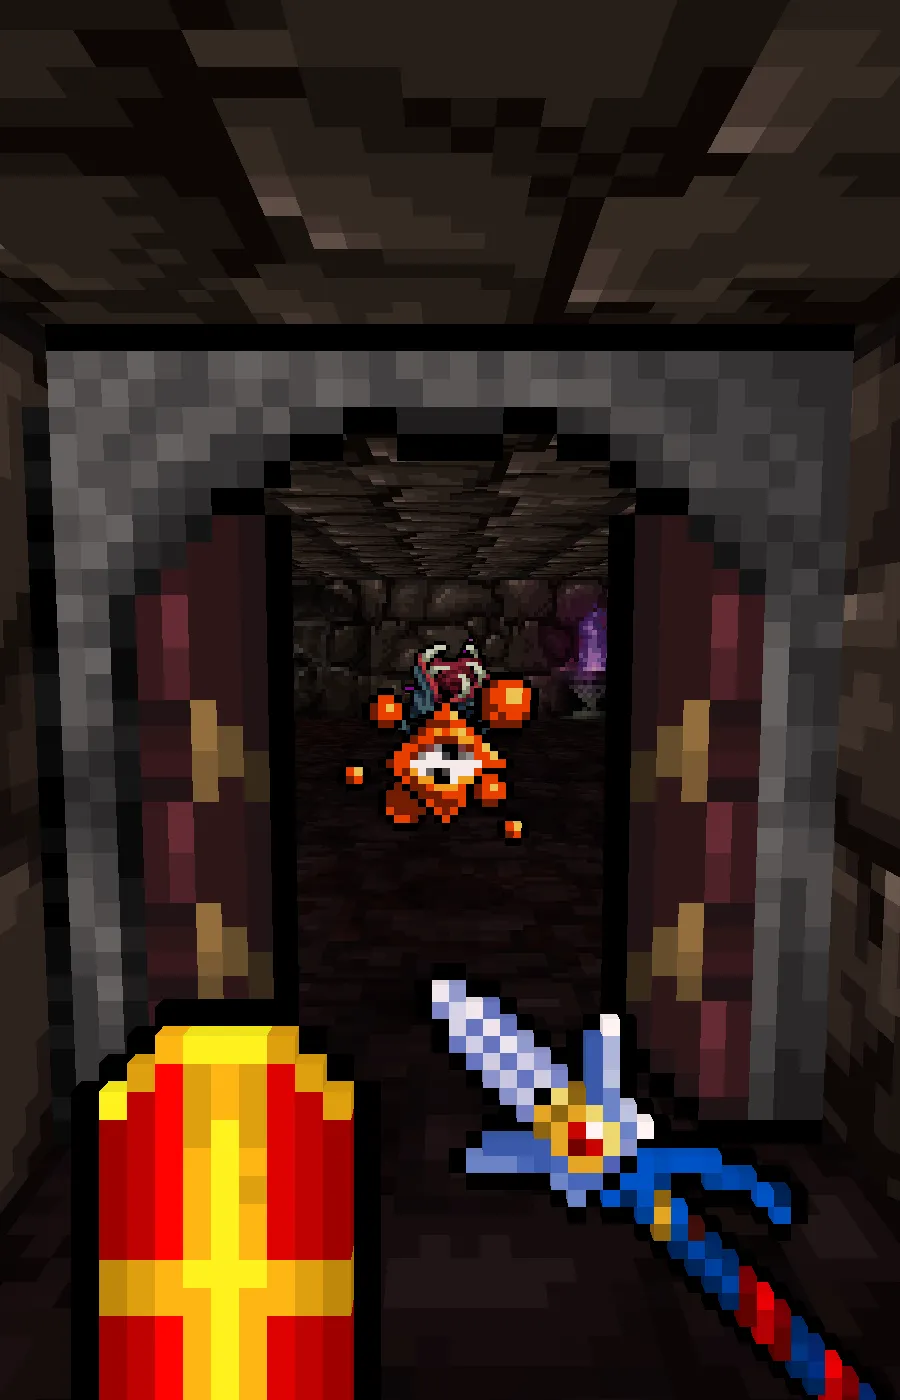
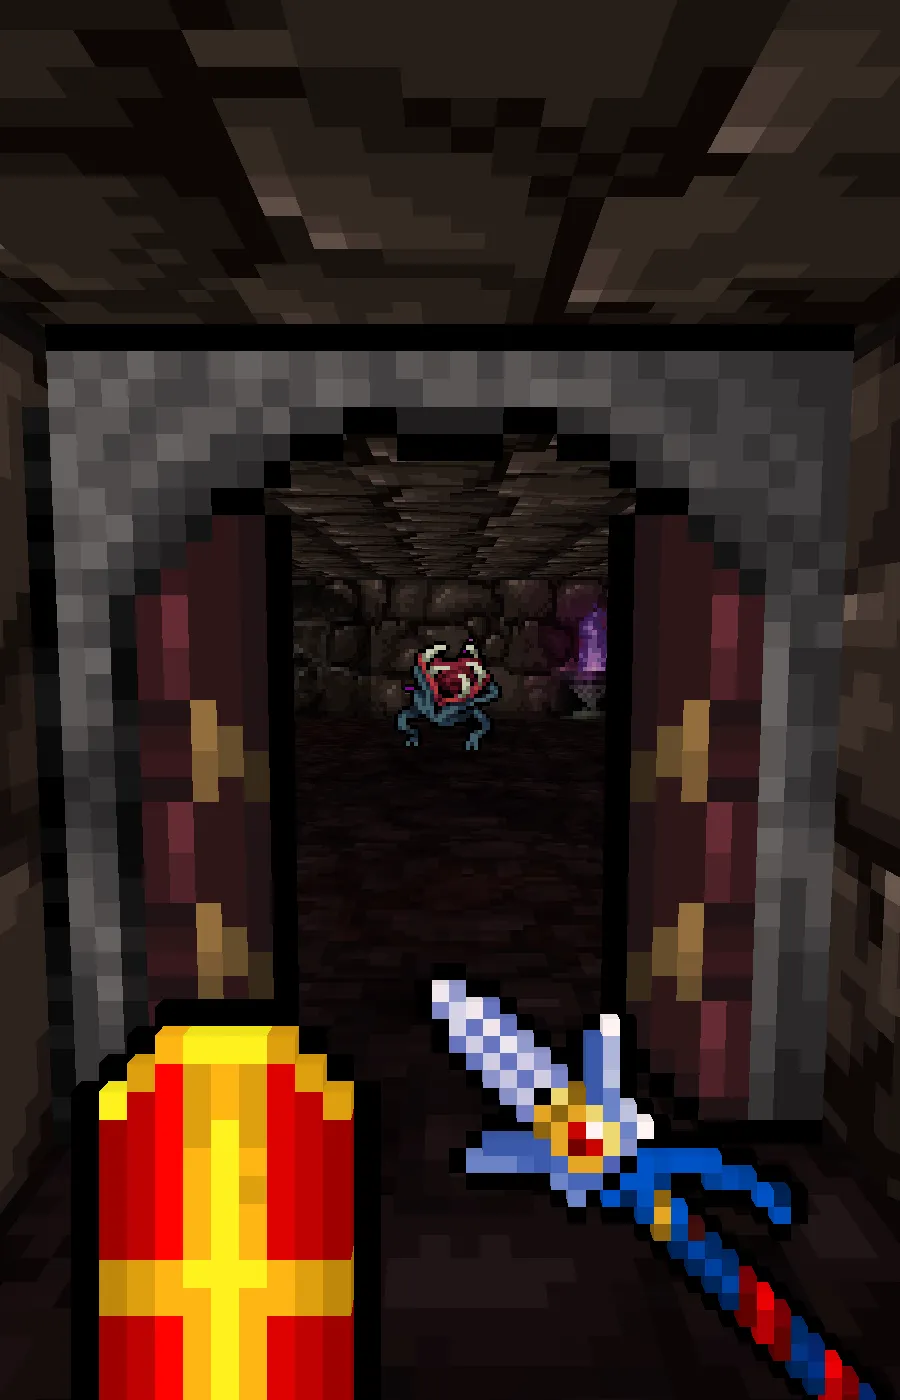
fix: update About's cover and veil

Changed region(s): [[0.3733, 0.4607, 0.6222, 0.6143], [0.56, 0.5836, 0.5911, 0.6143]]

diff --git a/apps/orbrun/site/site.css b/apps/orbrun/site/site.css
@@ -65,6 +65,9 @@ a[target='_blank']:not(.btn)::after { content: ' ↗'; font: 0.75em var(--mono);
 .brand { display: flex; align-items: center; gap: 0.45rem; color: var(--ink); text-decoration: none; font: 700 1.6rem/1 var(--gothic) }
 .brand img, .hero h1 img { image-rendering: pixelated; filter: drop-shadow(0 0 5px rgba(185, 120, 31, 0.75)) drop-shadow(0 0 12px rgba(139, 63, 176, 0.45)) }
 .brand img { width: 1.35rem; height: 1.35rem }
+/* About's own name stands in the hero: the bar's shows once that one has scrolled under it (site.js) */
+.bar.nameless .brand { opacity: 0; pointer-events: none; transition: opacity 0.25s }
+.bar.nameless.named .brand { opacity: 1; pointer-events: auto }
 .bar nav { display: flex; gap: 1.25rem; margin-left: auto }
 .bar nav a { color: var(--ink-dim); text-decoration: none; white-space: nowrap }
 .bar nav a:hover, .bar nav a[aria-current] { color: var(--ink) }
@@ -104,14 +107,14 @@ a[target='_blank']:not(.btn)::after { content: ' ↗'; font: 0.75em var(--mono);
 .hero.stage picture { position: absolute; inset: 0 0 auto; height: var(--still); z-index: -2 }
 .hero.stage picture img { width: 100%; height: 100%; object-fit: cover; image-rendering: pixelated }
 .hero.stage::before { inset: 0 0 auto; height: var(--still); background:
-  linear-gradient(to top, var(--bg) 0%, rgba(7, 7, 11, 0.6) 8%, rgba(7, 7, 11, 0.28) 22%, rgba(7, 7, 11, 0.22) 80%, rgba(7, 7, 11, 0.6) 100%),
+  linear-gradient(to top, var(--bg) 0%, rgba(30, 18, 12, 0.65) 10%, rgba(30, 18, 12, 0.5) 24%, rgba(30, 18, 12, 0.43) 76%, rgba(7, 7, 11, 0.65) 100%),
   radial-gradient(ellipse 38% 44% at 50% 55%, rgba(7, 7, 11, 0.72), rgba(7, 7, 11, 0.38) 60%, transparent) }
 @media (max-width: 700px) {
-  .hero.stage { --still: min(155.5vw, 82vh); padding-top: calc(var(--still) * 0.74) }
-  /* the portrait still keeps its monster in the middle and the title stands below it, so the shade goes under the title instead */
+  .hero.stage { --still: min(155.5vw, 82vh); padding-top: calc(var(--still) * 0.56) }
+  /* the portrait still keeps its monster in the middle and the title stands just under it, as wide, so the shade goes under the title */
   .hero.stage::before { background:
-    linear-gradient(to top, var(--bg) 0%, rgba(7, 7, 11, 0.6) 8%, rgba(7, 7, 11, 0.28) 22%, rgba(7, 7, 11, 0.22) 80%, rgba(7, 7, 11, 0.6) 100%),
-    radial-gradient(ellipse 70% 16% at 50% 84%, rgba(7, 7, 11, 0.72), rgba(7, 7, 11, 0.38) 60%, transparent) }
+    linear-gradient(to top, var(--bg) 0%, rgba(30, 18, 12, 0.65) 10%, rgba(30, 18, 12, 0.5) 24%, rgba(30, 18, 12, 0.43) 76%, rgba(7, 7, 11, 0.65) 100%),
+    radial-gradient(ellipse 70% 18% at 50% 62%, rgba(7, 7, 11, 0.86), rgba(7, 7, 11, 0.5) 60%, transparent) }
 }
 /* the hero is an act like the rest: the name where a label stands, a line of small capitals, a sentence, then the way in */
 .hero.stage .title { display: grid; justify-items: center; gap: 0 }
@@ -120,6 +123,21 @@ a[target='_blank']:not(.btn)::after { content: ' ↗'; font: 0.75em var(--mono);
 .hero.stage .tag { margin: 0.9rem 0 2.2rem; font: 400 clamp(0.95rem, 1.6vw, 1.1rem)/1.55 var(--mono); letter-spacing: 0.02em; color: var(--ink-dim); text-shadow: 0 1px 8px #000 }
 .hero.stage .actions { justify-content: center }
 .hero.stage .small-print { margin-top: 1.6rem; letter-spacing: 0.04em }
+/* the still is veiled in the Depths' own brown, as the acts that stand on Depths stills are, if lighter: it is the page's first picture.
+   Above a phone's width, the name stands under the doorway, between the shield and the sword, leaving what comes through it in the clear.
+   The still always spans the width and is cropped top and bottom about its middle, so the name is placed from the middle and
+   sized by the width, as the still is: it keeps its place in the picture at any size (text never below a readable floor) */
+@media (min-width: 701px) {
+  .hero.stage { padding-top: calc(var(--still) / 2 + 1.1vw) }
+  .hero.stage h1 { font-size: 9.4vw }
+  .hero.stage .tag { margin: 1vw 0 2.4vw; font-size: max(0.78rem, 1.22vw) }
+  .hero.stage .actions { gap: 0.9vw }
+  .hero.stage .btn { font-size: max(0.75rem, 1vw); padding: 0.78em 1.39em }
+  .hero.stage .small-print { margin-top: 1.8vw; font-size: max(0.65rem, 0.83vw) }
+  .hero.stage::before { background:
+    linear-gradient(to top, var(--bg) 0%, rgba(30, 18, 12, 0.65) 10%, rgba(30, 18, 12, 0.5) 24%, rgba(30, 18, 12, 0.43) 76%, rgba(7, 7, 11, 0.65) 100%),
+    radial-gradient(20vw 12vw at 50% calc(50% + 12vw), rgba(7, 7, 11, 0.8), rgba(7, 7, 11, 0.45) 60%, transparent) }
+}
 
 .act { position: relative; isolation: isolate; display: grid; justify-items: center; gap: 2.2rem; padding: 6rem var(--gutter) }
 .act + .act:not(.field) { padding-top: 2rem }

diff --git a/apps/orbrun/site/site.js b/apps/orbrun/site/site.js
@@ -49,8 +49,13 @@
   const hero = document.querySelector('.hero')
   // About's hero has words under the still: the bar takes its ground once they reach it, not once the whole hero is gone
   const words = hero?.querySelector('.title')
-  const ground = () =>
+  // About's name is the bar's while it is on screen: the bar's own shows once it has gone under the bar
+  const name = hero?.classList.contains('stage') ? hero.querySelector('h1') : null
+  const ground = () => {
     bar.classList.toggle('solid', !hero || (words ?? hero).getBoundingClientRect()[words ? 'top' : 'bottom'] <= bar.offsetHeight)
+    if (name) bar.classList.toggle('named', name.getBoundingClientRect().bottom <= bar.offsetHeight)
+  }
+  if (name) bar.classList.add('nameless')
   addEventListener('scroll', ground, { passive: true })
   addEventListener('resize', ground, { passive: true })
   ground()

diff --git a/apps/orbrun/site-pages.ts b/apps/orbrun/site-pages.ts
@@ -281,7 +281,7 @@ function bar(page: Page): string {
 }
 
 /** About's hero, a still of Depths:1 */
-const HERO_ALT = 'First person on Depths:1: an open door in a stone wall, monsters coming through it from the room beyond, a shield and a sword held in the lower corners'
+const HERO_ALT = 'First person on Depths:1: an open door in a stone wall, a monster in the room beyond it, a shield and a sword held in the lower corners'
 
 /** About's social card, a still of Lair:3 under the name */
 const CARD_ALT = 'First person on Lair:3: a cane toad on the left and a catoblepas on the right, blood on the grass between them, a polearm held in the lower corner'
